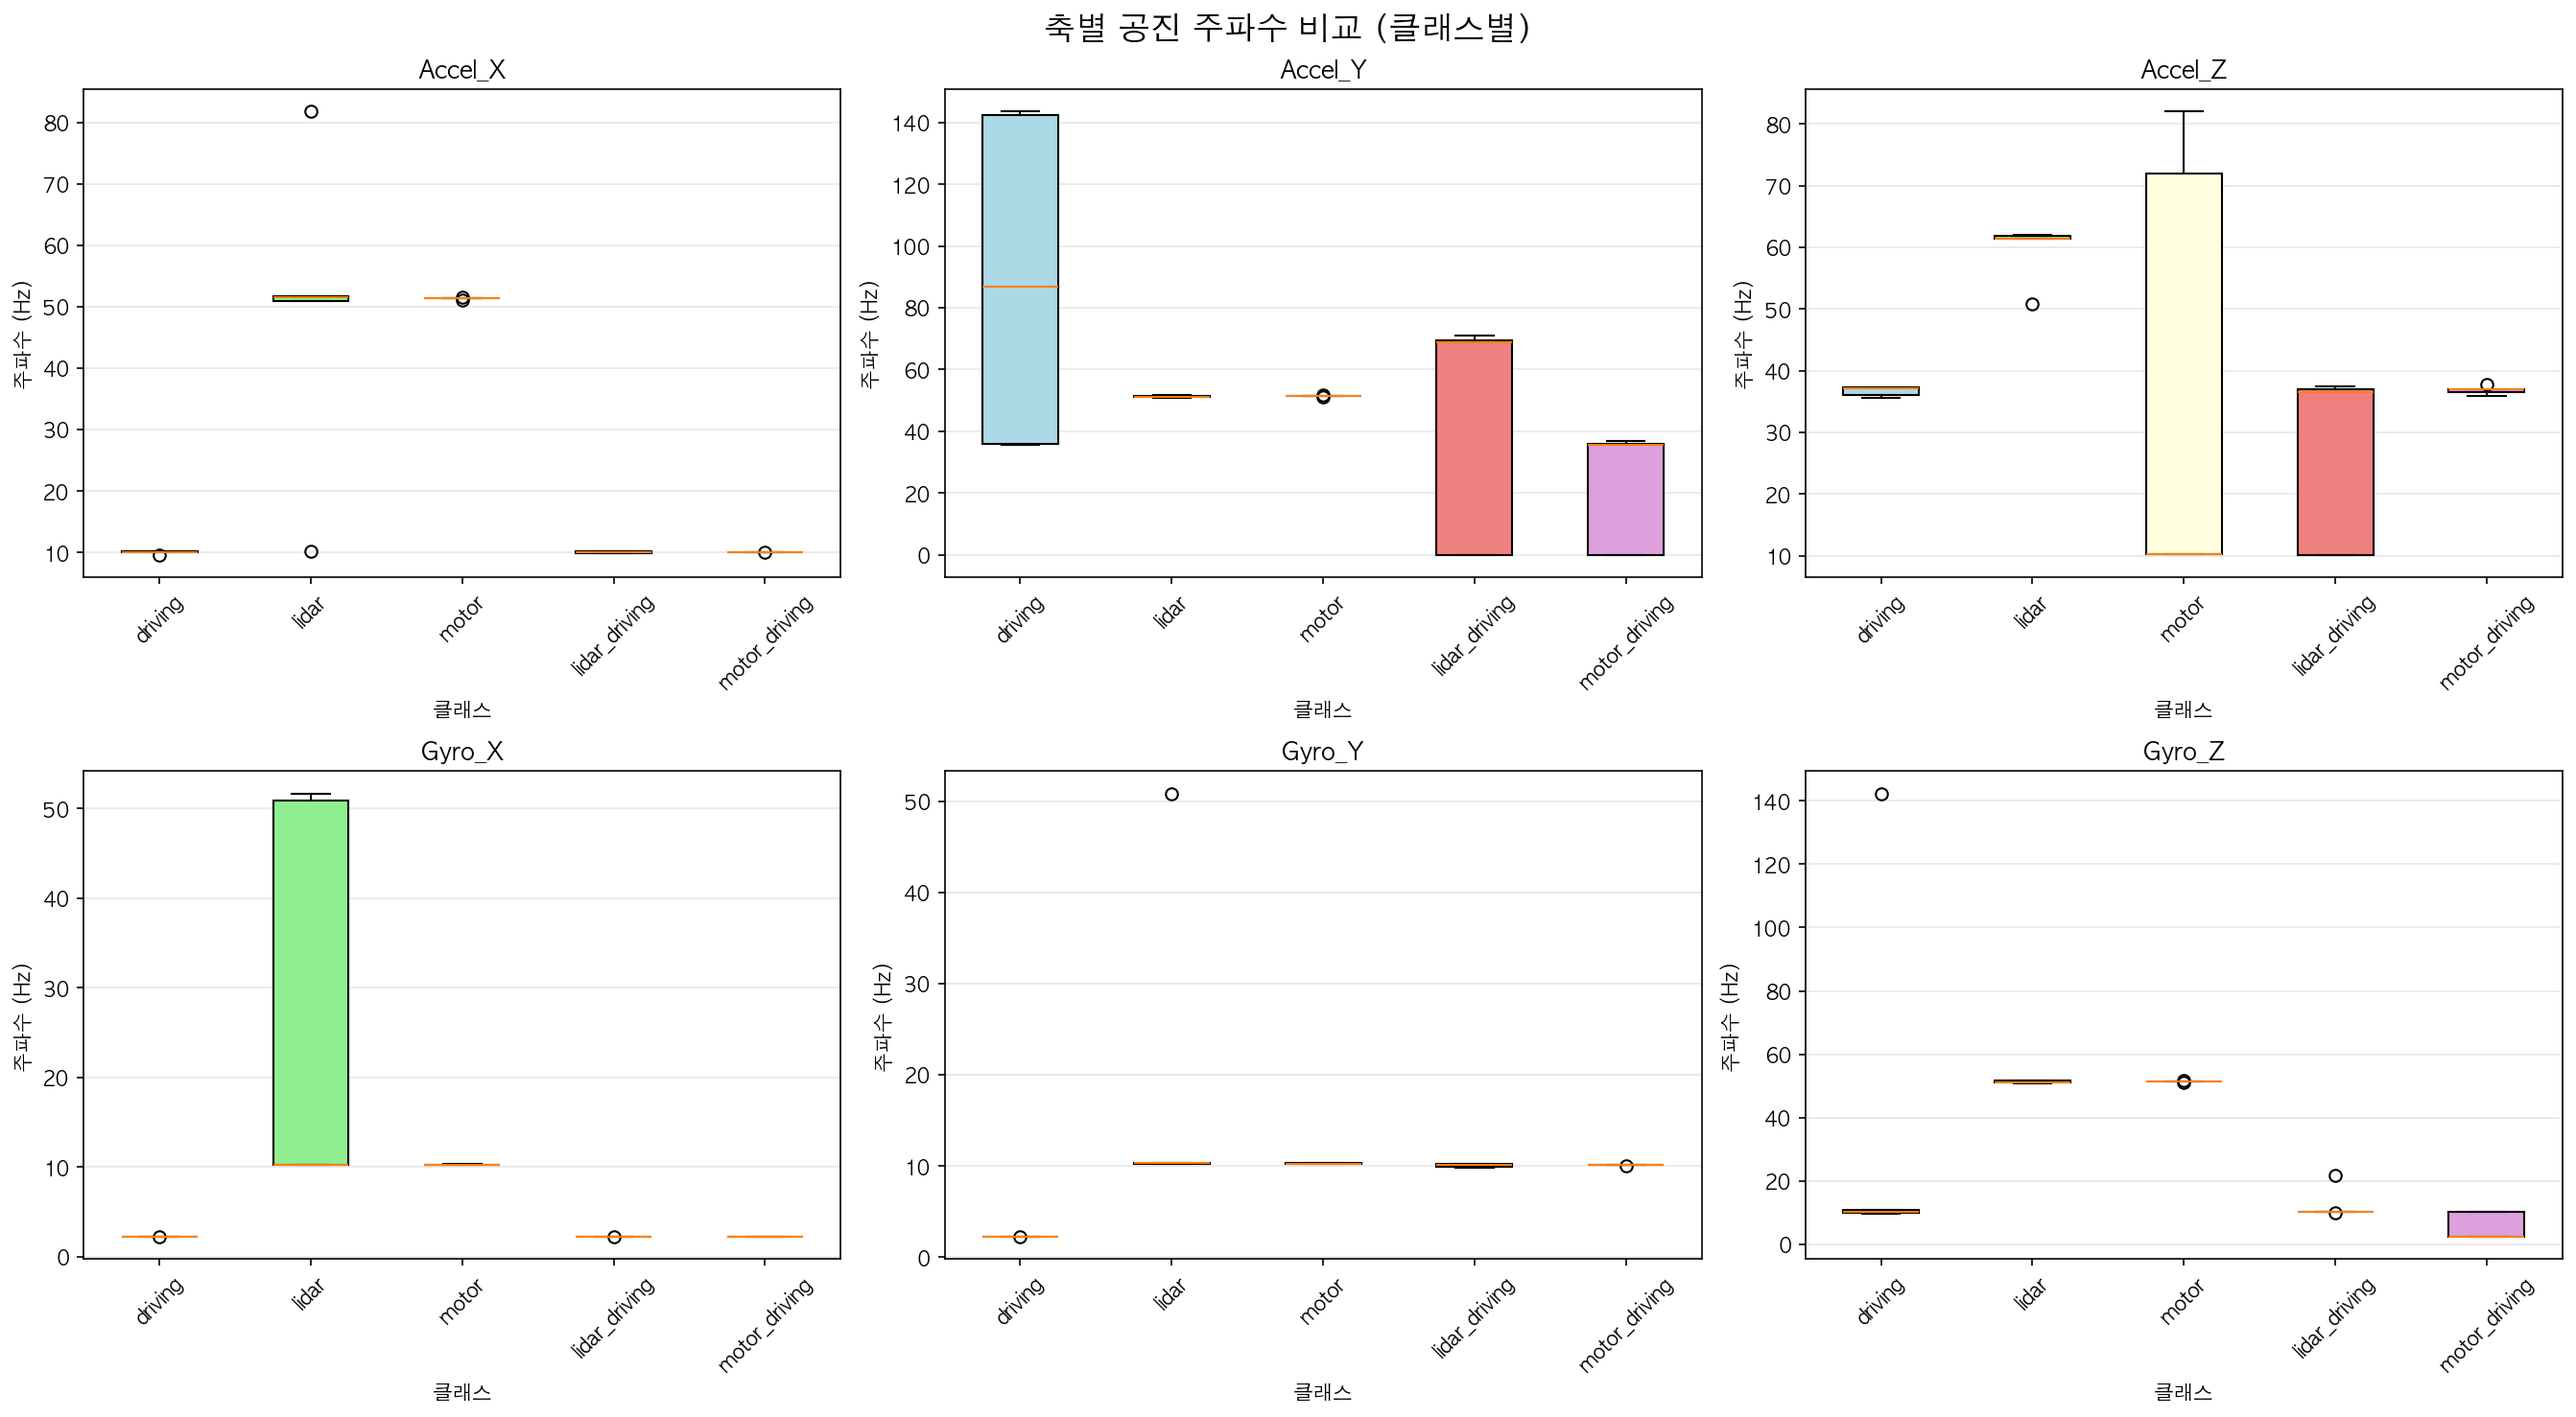
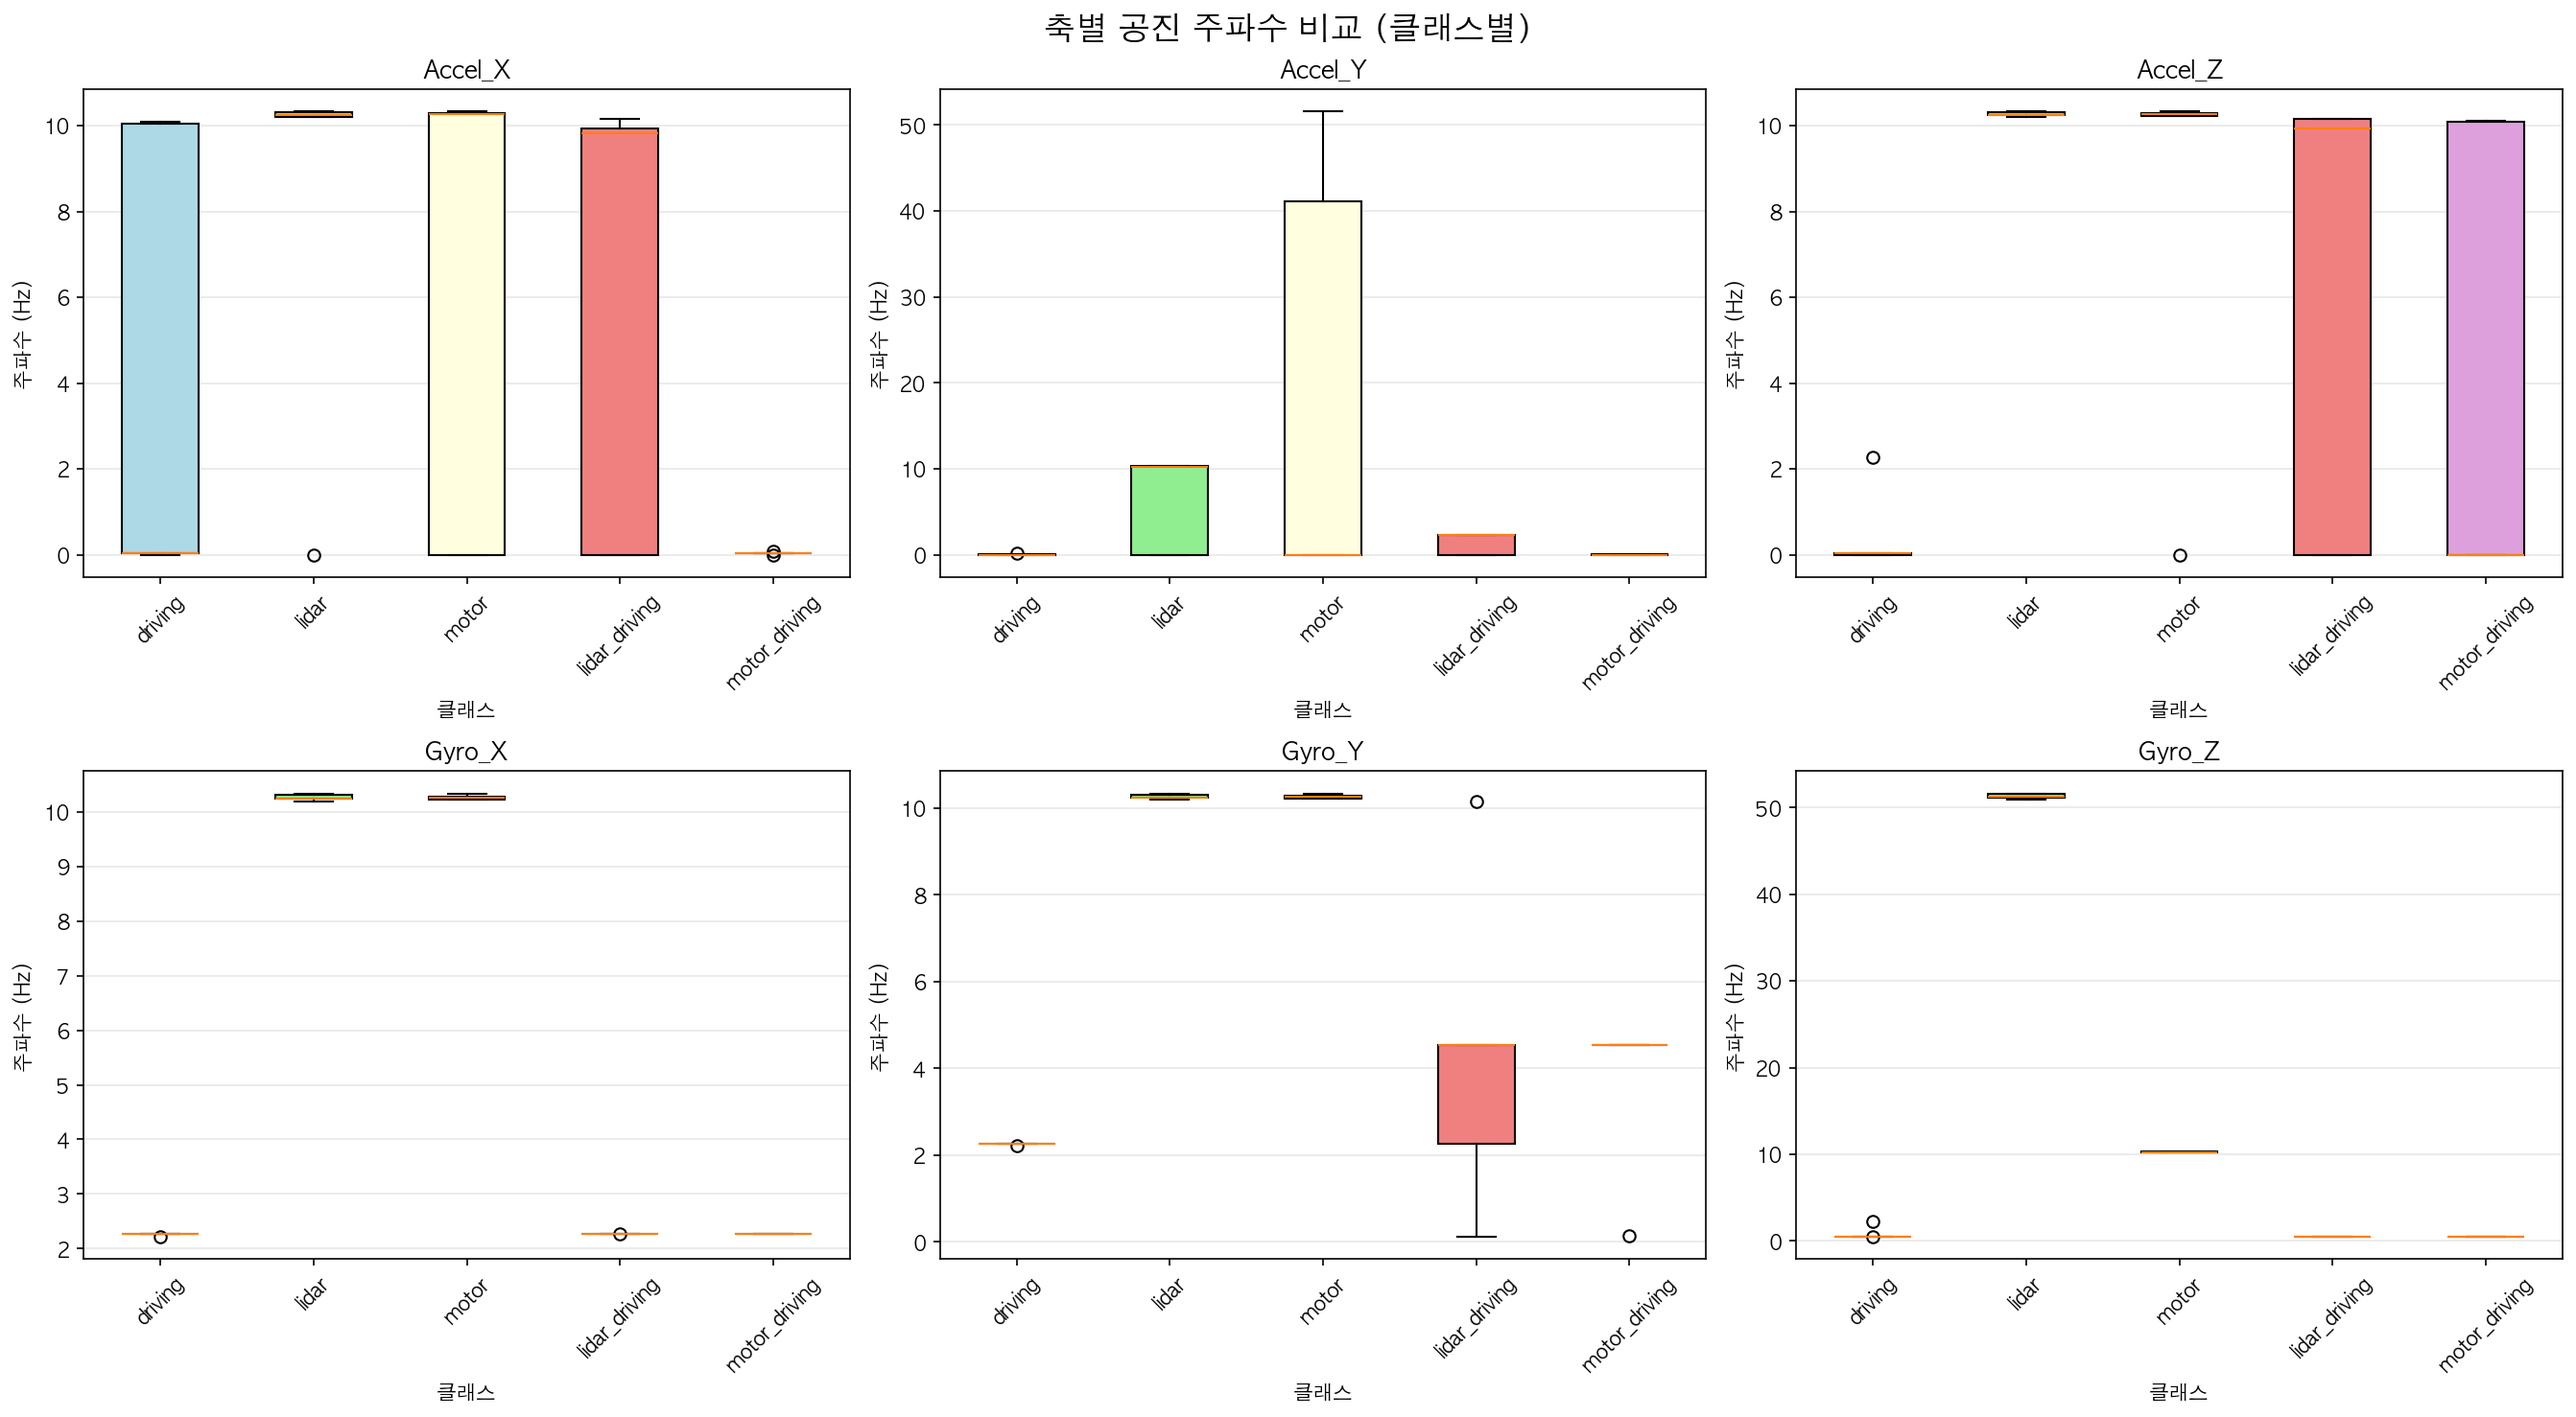
Fix: filter_type=kalman, fft_size=16384

diff --git a/FFT/FFT_analysis_threshold_ver.py b/FFT/FFT_analysis_threshold_ver.py
@@ -3,41 +3,94 @@ import pandas as pd
 import numpy as np
 import matplotlib.pyplot as plt
 from scipy.fft import fft, fftfreq
-from scipy.signal import butter, filtfilt
 from pathlib import Path
 
 
+# 칼만 필터 클래스
+class KalmanFilter:
+    def __init__(self, process_variance=1e-5, measurement_variance=1e-2, estimated_measurement_variance=1e-2):
+        """
+        1D 칼만 필터 초기화
+
+        Parameters:
+        -----------
+        process_variance : float
+            프로세스 노이즈 분산 (Q) - 시스템 모델의 불확실성
+        measurement_variance : float
+            측정 노이즈 분산 (R) - 센서 측정의 불확실성
+        estimated_measurement_variance : float
+            초기 추정 오차 공분산 (P)
+        """
+        self.process_variance = process_variance  # Q
+        self.measurement_variance = measurement_variance  # R
+        self.estimated_measurement_variance = estimated_measurement_variance  # P
+        self.posteri_estimate = 0.0  # 사후 추정값
+        self.posteri_error_estimate = 1.0  # 사후 오차 추정
+
+    def update(self, measurement):
+        """
+        칼만 필터 업데이트
+
+        Parameters:
+        -----------
+        measurement : float
+            새로운 측정값
+
+        Returns:
+        --------
+        float : 필터링된 값
+        """
+        # 예측 단계 (Prediction)
+        priori_estimate = self.posteri_estimate
+        priori_error_estimate = self.posteri_error_estimate + self.process_variance
+
+        # 업데이트 단계 (Update)
+        kalman_gain = priori_error_estimate / (priori_error_estimate + self.measurement_variance)
+        self.posteri_estimate = priori_estimate + kalman_gain * (measurement - priori_estimate)
+        self.posteri_error_estimate = (1 - kalman_gain) * priori_error_estimate
+
+        return self.posteri_estimate
+
+
+def apply_kalman_filter(data, process_variance=1e-5, measurement_variance=1e-2):
+    """
+    데이터에 칼만 필터 적용
+
+    Parameters:
+    -----------
+    data : numpy.array
+        필터링할 데이터
+    process_variance : float
+        프로세스 노이즈 분산
+    measurement_variance : float
+        측정 노이즈 분산
+
+    Returns:
+    --------
+    numpy.array : 필터링된 데이터
+    """
+    kf = KalmanFilter(
+        process_variance=process_variance,
+        measurement_variance=measurement_variance
+    )
+
+    filtered_data = np.zeros(len(data))
+    for i, measurement in enumerate(data):
+        filtered_data[i] = kf.update(measurement)
+
+    return filtered_data
+
+
 # 저역통과 필터 함수
-def butter_lowpass(cutoff, fs, order=5):
-    nyq = 0.5 * fs
-    normal_cutoff = cutoff / nyq
-    b, a = butter(order, normal_cutoff, btype='low', analog=False)
-    return b, a
-
-
-def butter_lowpass_filter(data, cutoff, fs, order=5):
-    b, a = butter_lowpass(cutoff, fs, order=order)
-    return filtfilt(b, a, data)
+# 저역통과 필터 함수 제거됨 (칼만 필터만 사용)
 
 
 # 샘플링 레이트 계산 함수
 def calculate_sample_rate(df, time_column='Time_us'):
     """
     CSV 파일의 시간 열(마이크로초)에서 샘플링 레이트를 계산합니다.
-
-    Parameters:
-    -----------
-    df : pandas.DataFrame
-        데이터프레임
-    time_column : str
-        시간 열의 이름 (기본값: 'Time_us')
-
-    Returns:
-    --------
-    float : 샘플링 레이트 (Hz)
     """
     if time_column not in df.columns:
-        # 시간 열이 없으면 첫 번째 열을 시간으로 간주
         time_column = df.columns[0]
 
     time_data = df[time_column].dropna().values
@@ -45,16 +98,9 @@ def calculate_sample_rate(df, time_column='Time_us'):
     if len(time_data) < 2:
         raise ValueError("시간 데이터가 충분하지 않습니다.")
 
-    # 시간 간격 계산 (마이크로초 단위)
     time_diffs = np.diff(time_data)
-
-    # 평균 시간 간격 (마이크로초)
     avg_time_diff_us = np.mean(time_diffs)
-
-    # 평균 시간 간격을 초 단위로 변환
     avg_time_diff_sec = avg_time_diff_us / 1_000_000
-
-    # 샘플링 레이트 = 1 / 평균 시간 간격
     sample_rate = 1 / avg_time_diff_sec
 
     return sample_rate
@@ -118,9 +164,10 @@ def fft_analysis(
 def analyze_single_file(
         file_path,
         axes,
-        fft_size=8192,
-        apply_filter=True,
-        filter_order=5,
+        fft_size=16384,
+        filter_type='kalman',  # 'none', 'kalman'
+        kalman_process_var=1e-5,
+        kalman_measurement_var=1e-2,
         threshold_method="std",
         n_std=2.75,
         recon_error_value=0.3,
@@ -146,10 +193,11 @@ def analyze_single_file(
             continue
 
         data = df[axis].dropna().values
+        filter_applied_str = filter_type
 
-        if apply_filter:
-            cutoff = sample_rate / 4
-            data = butter_lowpass_filter(data, cutoff=cutoff, fs=sample_rate, order=filter_order)
+        # 칼만 필터 적용
+        if filter_type == 'kalman':
+            data = apply_kalman_filter(data, kalman_process_var, kalman_measurement_var)
 
         freqs, amps, resonance_freq, threshold_ranges, threshold = fft_analysis(
             data,
@@ -177,8 +225,9 @@ def analyze_single_file(
             'Threshold_Ranges': threshold_ranges_str,
             'Sample_Rate': round(sample_rate, 2),
             'FFT_Size': fft_size,
-            'Filter_Applied': apply_filter,
-            'Filter_Order': filter_order if apply_filter else 'N/A'
+            'Filter_Type': filter_applied_str,
+            'Kalman_Process_Var': kalman_process_var if filter_type == 'kalman' else 'N/A',
+            'Kalman_Measurement_Var': kalman_measurement_var if filter_type == 'kalman' else 'N/A'
         })
 
         # subplot 그리기
@@ -192,9 +241,9 @@ def analyze_single_file(
         plt.grid(True)
         plt.legend()
 
-    plt.suptitle(f"FFT Frequency Spectrum - {file_title}", fontsize=16)
+    plt.suptitle(f"FFT Frequency Spectrum - {file_title} (Filter: {filter_type})", fontsize=16)
     plt.tight_layout(rect=[0, 0, 1, 0.93])
-    plt.savefig(os.path.join(os.path.dirname(file_path), f"{file_title}_fft_plot.png"), dpi=150)
+    plt.savefig(os.path.join(os.path.dirname(file_path), f"{file_title}_fft_plot_{filter_type}.png"), dpi=150)
     plt.close()
 
     return results
@@ -204,9 +253,10 @@ def analyze_single_file(
 def analyze_all_files(
         data_dir,
         axes=["Accel_X", "Accel_Y", "Accel_Z", "Gyro_X", "Gyro_Y", "Gyro_Z"],
-        fft_size=8192,
-        apply_filter=True,
-        filter_order=5,
+        fft_size=16384,
+        filter_type='kalman',  # 'none', 'kalman'
+        kalman_process_var=1e-5,
+        kalman_measurement_var=1e-2,
         threshold_method="std",
         n_std=2.75,
         recon_error_value=0.3,
@@ -214,15 +264,6 @@ def analyze_all_files(
 ):
     """
     지정된 디렉토리의 모든 CSV 파일에 대해 FFT 분석을 수행합니다.
-
-    Parameters:
-    -----------
-    data_dir : str
-        데이터 파일이 있는 디렉토리 경로
-    fft_size : int
-        FFT 크기 (기본값: 8192)
-    time_column : str
-        시간 열 이름 (기본값: 'Time_us', 마이크로초 단위)
     """
     data_path = Path(data_dir)
 
@@ -234,6 +275,7 @@ def analyze_all_files(
         return None
 
     print(f"총 {len(csv_files)}개의 파일을 찾았습니다.\n")
+    print(f"사용 필터: {filter_type}")
 
     # 클래스별로 파일 분류
     class_files = {
@@ -277,8 +319,9 @@ def analyze_all_files(
                     file_path=str(file_path),
                     axes=axes,
                     fft_size=fft_size,
-                    apply_filter=apply_filter,
-                    filter_order=filter_order,
+                    filter_type=filter_type,
+                    kalman_process_var=kalman_process_var,
+                    kalman_measurement_var=kalman_measurement_var,
                     threshold_method=threshold_method,
                     n_std=n_std,
                     recon_error_value=recon_error_value,
@@ -303,10 +346,11 @@ def analyze_all_files(
         # 컬럼 순서 재정렬
         column_order = ['Class', 'File', 'Axis', 'Resonance_Frequency_Hz',
                         'Threshold_Value', 'Threshold_Method', 'Threshold_Ranges',
-                        'Sample_Rate', 'FFT_Size', 'Filter_Applied', 'Filter_Order']
+                        'Sample_Rate', 'FFT_Size', 'Filter_Type',
+                        'Kalman_Process_Var', 'Kalman_Measurement_Var']
         results_df = results_df[column_order]
 
-        output_path = data_path / "all_files_fft_analysis_results.csv"
+        output_path = data_path / f"all_files_fft_analysis_results_{filter_type}.csv"
         results_df.to_csv(output_path, index=False, encoding='utf-8-sig')
 
         print(f"\n{'=' * 60}")
@@ -333,16 +377,18 @@ if __name__ == "__main__":
     DATA_DIR = "/Users/seohyeon/PycharmProjects/AT_data/data_v1"
 
     # 배치 분석 실행
+    # filter_type 옵션: 'none', 'kalman'
     results = analyze_all_files(
         data_dir=DATA_DIR,
         axes=["Accel_X", "Accel_Y", "Accel_Z", "Gyro_X", "Gyro_Y", "Gyro_Z"],
-        fft_size=8192,  # FFT 크기 8192로 설정
-        apply_filter=True,
-        filter_order=5,
-        threshold_method="std",  # "std", "percentile", "recon_error"
+        fft_size=16384,
+        filter_type='kalman',  # 칼만 필터 사용
+        kalman_process_var=1e-5,  # 칼만 필터 프로세스 노이즈
+        kalman_measurement_var=1e-2,  # 칼만 필터 측정 노이즈
+        threshold_method="std",
         n_std=2.75,
         recon_error_value=0.3,
-        time_column='Time_us'  # 시간 열 이름 (마이크로초 단위)
+        time_column='Time_us'
     )
 
     if results is not None:

diff --git a/FFT/frequency_error_analysis.py b/FFT/frequency_error_analysis.py
@@ -480,7 +480,7 @@ def visualize_statistics_csv(stats_df, output_dir):
 # 실행
 if __name__ == "__main__":
     # FFT 분석 결과 CSV 파일 경로
-    RESULTS_CSV = "/Users/seohyeon/PycharmProjects/AT_data/data_v1/all_files_fft_analysis_results.csv"
+    RESULTS_CSV = "/Users/seohyeon/PycharmProjects/AT_data/data_v1/all_files_fft_analysis_results_kalman.csv"
 
     # 분석 실행 (통계 CSV 시각화 포함)
     stats = analyze_frequency_distribution(RESULTS_CSV)
